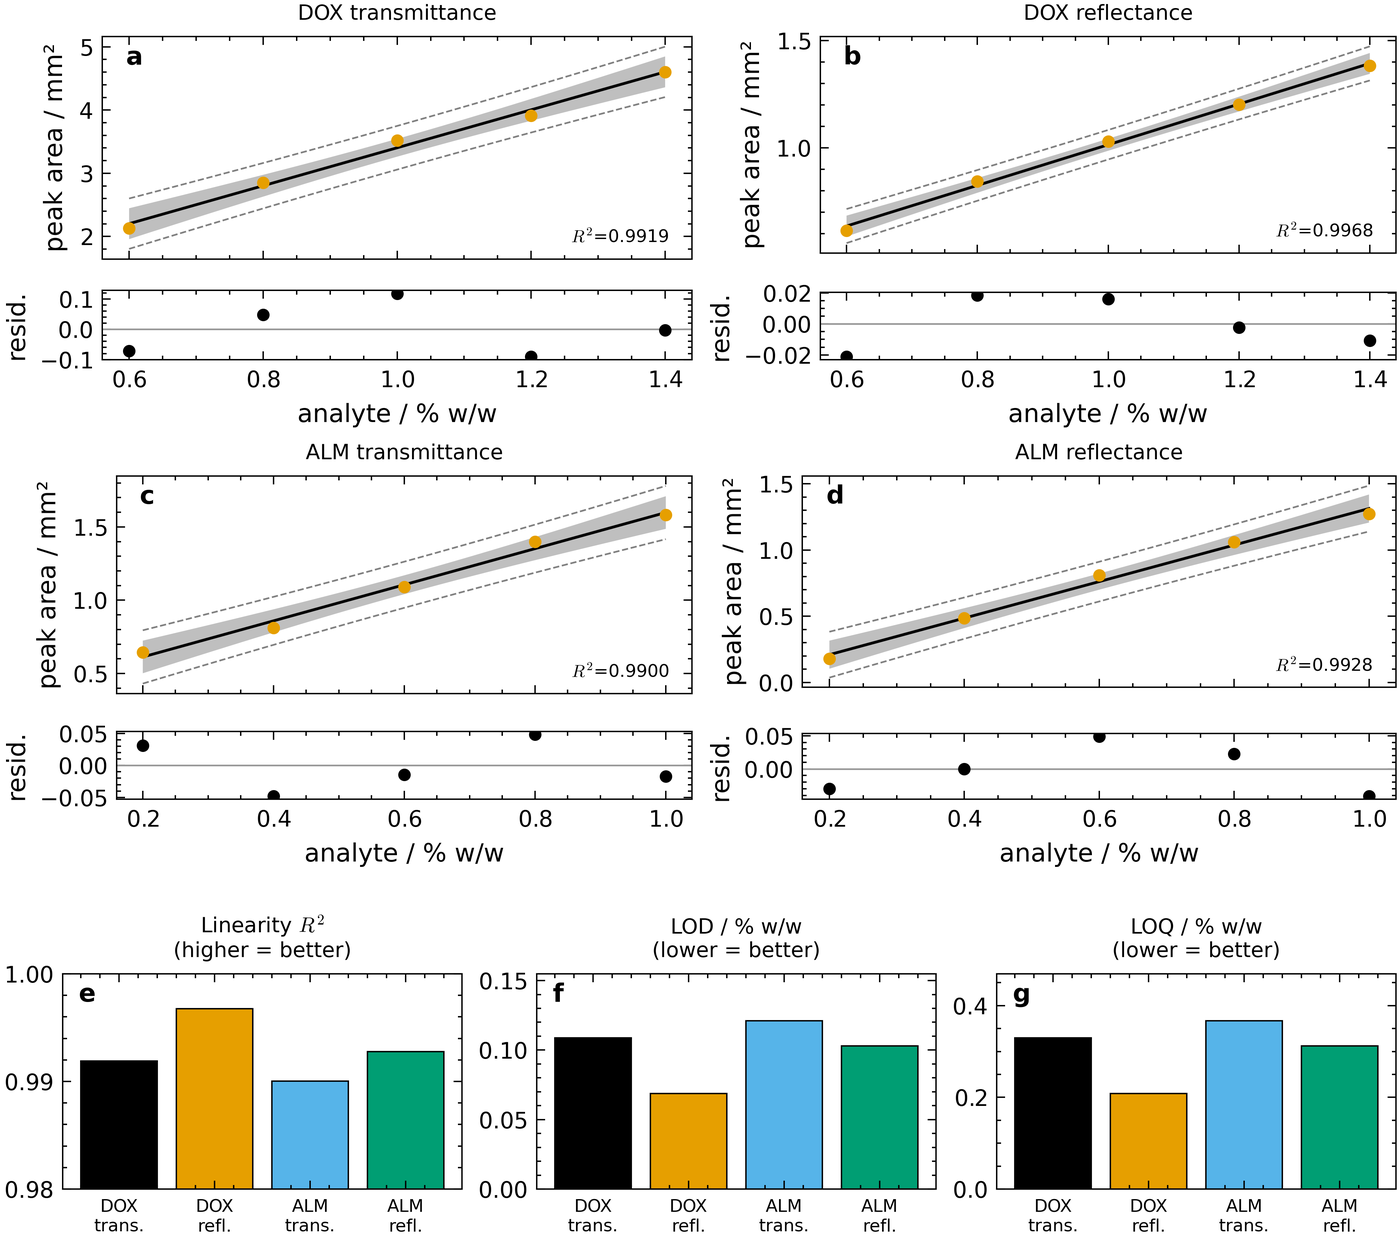
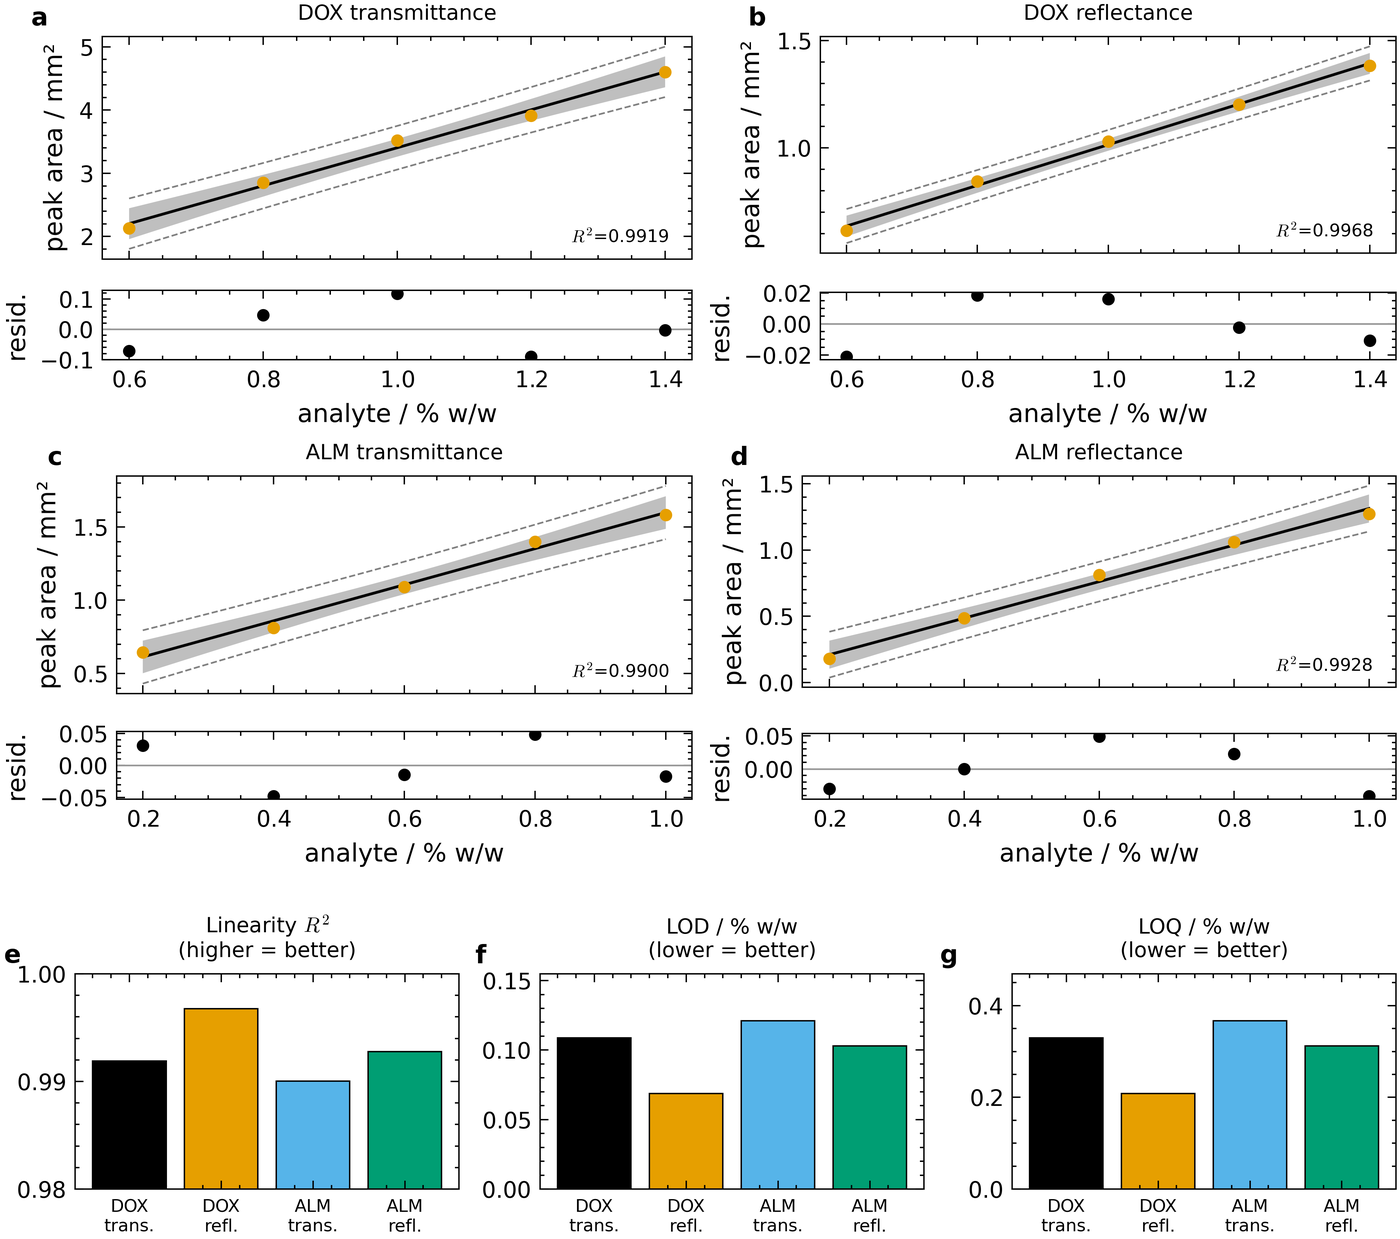
Pre-publication review, round 1: clean-clone findings + the two completed static angles
Clean clone (numpy/matplotlib/scipy only): the chemometrics suite now SKIPs
without scikit-learn instead of failing the gate; cli.py --help no longer
crashes (bare % in an argparse help string) and is tested; README names the
crystal-family deps. Panel letters sit outside the corner on every composite
(add_panel_labels(axes=...)); SKILL.md guidance updated.

Static review: silent fallbacks in correct_baseline, _sg and the t-multiplier
now WARN (and the no-scipy quantile is exact via statistics.NormalDist); the
FTIR dead-pixel heuristic no longer bypasses the whole ingest gate for PXRD
and crystal_pxrd.plot gates the experimental overlay; rwp/sum_of_parents/
phase_report default to weight=auto (Poisson only for counts-like data);
simulate_pattern takes alpha1 from cfg.pxrd_wavelength and warns on the two
silent no-ops; escape_tol_frac declared in Config; scienceplots deprecation
chatter silenced. Deferred findings recorded in ROADMAP.md and a Known
limitations section added to the README.

diff --git a/scripts/cocrystal.py b/scripts/cocrystal.py
@@ -76,10 +76,20 @@ def classify_ionisation(pka_acid, pka_base_conjugate,
 # indexing / FTIR (cocrystal_id.md) / SCXRD.
 
 
-def rwp(y_obs, y_calc, weight="poisson", eps=1e-12):
+def _resolve_weight(yo, weight):
+    """'auto' → 'poisson' only when every y_obs > 0 (counts-like data with a background);
+    a background-subtracted or normalised profile with true zeros gets 'unit' - under Poisson
+    weights one zero would weigh 1/eps and the Rwp would be meaningless."""
+    if weight == "auto":
+        return "poisson" if (yo.size and float(np.min(yo)) > 0) else "unit"
+    return weight
+
+
+def rwp(y_obs, y_calc, weight="auto", eps=1e-12):
     """Weighted profile residual (Rietveld goodness-of-fit):
         Rwp = sqrt( Σ w_i (y_obs_i − y_calc_i)² / Σ w_i y_obs_i² )
     Returns the FRACTION (0 = perfect; ×100 for %). weight:
+      'auto'    → (default) 'poisson' when every y_obs > 0, else 'unit' (see _resolve_weight).
       'poisson' → w_i = 1/max(y_obs_i, eps) — counting statistics, the crystallographic default
                   (assumes counts-like data with a non-zero background; on a normalised pattern
                   with true zeros prefer 'unit').
@@ -88,19 +98,20 @@ def rwp(y_obs, y_calc, weight="poisson", eps=1e-12):
     diagnostic on top of it."""
     yo = np.asarray(y_obs, float).ravel()
     yc = np.asarray(y_calc, float).ravel()
+    weight = _resolve_weight(yo, weight)
     if weight == "unit":
         w = np.ones_like(yo)
     elif weight == "poisson":
         w = 1.0 / np.maximum(yo, eps)
     else:
-        raise ValueError("weight must be 'poisson' or 'unit'")
+        raise ValueError("weight must be 'auto', 'poisson' or 'unit'")
     den = float(np.sum(w * yo ** 2))
     if den <= 0:
         return float("nan")
     return float(np.sqrt(np.sum(w * (yo - yc) ** 2) / den))
 
 
-def sum_of_parents(y_obs, parents, weight="poisson", eps=1e-12):
+def sum_of_parents(y_obs, parents, weight="auto", eps=1e-12):
     """Fit an observed pattern as a NON-NEGATIVE linear combination of the parent patterns
     (NNLS) — the physical-mixture model. A true mixture reconstructs well (low Rwp, no
     systematic unexplained peaks); a genuine new phase does NOT (the parents can't build its
@@ -127,6 +138,7 @@ def sum_of_parents(y_obs, parents, weight="poisson", eps=1e-12):
     resid = y - y_calc
     total = float(coef.sum())
     frac = coef / total if total > 0 else np.full_like(coef, np.nan)
+    weight = _resolve_weight(np.asarray(y, float).ravel(), weight)   # record the weighting actually used
     rw = rwp(y, y_calc, weight=weight, eps=eps)
     caption = (f"NNLS sum-of-parents: {coef.size} parents, relative scale "
                f"{np.array2string(frac, precision=3)} (NOT quantitative phase % — no RIR); "
@@ -154,7 +166,7 @@ def unexplained_peaks(x, residual, reference=None, kind="new", rel_height=0.05, 
     return peaks
 
 
-def phase_report(x, y_obs, parents, weight="poisson", peak_rel_height=0.05):
+def phase_report(x, y_obs, parents, weight="auto", peak_rel_height=0.05):
     """Turn-key new-phase-vs-physical-mixture report: NNLS sum-of-parents fit + Rwp + the
     new/lost unexplained-peak lists + a HEURISTIC verdict. The verdict is a detection (are
     there unexplained peaks above `peak_rel_height`?), not a magic Rwp cutoff — read it WITH

diff --git a/docs/build_gallery.py b/docs/build_gallery.py
@@ -246,7 +246,7 @@ def render_inline():
     fig.get_layout_engine().set(w_pad=0.04, h_pad=0.04)
     top, bot = fig.subfigures(2, 1, height_ratios=[3.0, 1.15], hspace=0.05)
     outer = top.add_gridspec(2, 2, hspace=0.20, wspace=0.16)
-    models, letters = {}, "abcd"
+    models, charts = {}, []
     for i, (name, (xs_, ys_, _pub)) in enumerate(BMC.items()):
         r, c = divmod(i, 2)
         cell = outer[r, c].subgridspec(2, 1, height_ratios=[3.2, 1], hspace=0.05)
@@ -269,7 +269,7 @@ def render_inline():
         a1.scatter(m["x"], m["resid"], zorder=3, s=12)
         a1.set_ylabel("resid.")
         a1.set_xlabel("analyte / % w/w")
-        style.panel_letter(a0, letters[i])
+        charts.append(a0)
     axf = bot.subplots(1, 3)
     short = [n.replace(" transmittance", "\ntrans.").replace(" reflectance", "\nrefl.") for n in BMC]
     fom = {
@@ -286,7 +286,9 @@ def render_inline():
             axf[k].set_ylim(0.98, 1.0)
         else:
             axf[k].set_ylim(0, max(vals) * 1.28)
-        style.panel_letter(axf[k], "efg"[k])
+        charts.append(axf[k])
+    fig.canvas.draw()                                             # settle the nested layout first
+    style.add_panel_labels(fig, cfg2, axes=charts, x_offset_pt="auto")
     save(fig, "composite_method", cfg2)
 
     # ---- composite B: specificity (full spectra · carbonyl window · ratio vs DM)
@@ -321,8 +323,7 @@ def render_inline():
     c.set_xlabel("DM / %"); c.set_ylabel("band-area ratio  I")
     c.annotate(f"$R^2$={m['r2']:.3f}", xy=(0.96, 0.06), xycoords="axes fraction", ha="right", va="bottom", fontsize="x-small")
     style.finalize_figure(fig, wspace=0.10, hspace=0.10)
-    for ax_, L in ((a, "a"), (b, "b"), (c, "c")):
-        style.panel_letter(ax_, L)
+    style.add_panel_labels(fig, cfg2, axes=[a, b, c], x_offset_pt="auto")
     save(fig, "composite_specificity", cfg2)
 
     # ---- composite C: PXRD phase ID (full range · low-angle zoom · one key) — needs gemmi + Dans

diff --git a/scripts/verify.py b/scripts/verify.py
@@ -71,8 +71,9 @@ def check_trace(x, y, cfg, name="trace", min_points=8, require_monotonic=True):
         dx = np.diff(x)
         if not (np.all(dx > 0) or np.all(dx < 0)):
             f.append(("FAIL", "x axis is not monotonic (concatenation/parse error?)"))
-    # crude noise/spike check: a single sample dominating the dynamic range
-    if y.size and np.ptp(y) > 0:
+    # crude noise/spike check: a single sample dominating the dynamic range. An FTIR rule -
+    # sharp Bragg peaks would trip it, so the pxrd domain keeps the structural checks only.
+    if y.size and np.ptp(y) > 0 and getattr(cfg, "domain", "ftir") != "pxrd":
         spikes = np.abs(np.diff(y, 2))
         if spikes.size and spikes.max() > 0.5 * np.ptp(y):
             f.append(("WARN", "large single-sample spike - check for a dead pixel/cosmic ray"))
@@ -130,8 +131,10 @@ def summarize(values, cfg):
         from scipy import stats
         t = float(stats.t.ppf(0.5 + p / 2, df=n - 1)) if n > 1 else float("nan")
     except Exception:
-        # normal-approx fallback if scipy absent
-        z = {0.90: 1.645, 0.95: 1.960, 0.99: 2.576}.get(round(p, 2), 1.960)
+        from statistics import NormalDist              # scipy absent: exact z, and say so
+        z = float(NormalDist().inv_cdf(0.5 + p / 2))
+        print(f"  [WARN] summarize: scipy unavailable - normal quantile z={z:.3f} used instead of "
+              f"t at n-1={n - 1} dof (CI too narrow at small n)")
         t = z if n > 1 else float("nan")
     ci = t * sem if n > 1 else float("nan")
     caption = (f"mean ± {int(p*100)}% CI (t={t:.3f}·SEM), n={n}"

diff --git a/scripts/crystal_pxrd.py b/scripts/crystal_pxrd.py
@@ -181,9 +181,9 @@ def realistic_pattern(struct, cfg, x_grid=None, npoints=3000):
 
 def plot(struct, cfg, experimental=None, pattern=None):
     """Plot the calculated pattern through the house pxrd conventions (normal 2theta axis,
-    intensity). `experimental`=(2theta, I) overlays a measured trace for phase ID. We don't
-    run verify.check_trace here — the data is our own validated calc, not an ingest, and its
-    sharp Bragg peaks would trip the FTIR dead-pixel spike heuristic."""
+    intensity). `experimental`=(2theta, I) overlays a measured trace for phase ID; that trace is
+    an ingest and is gated with verify.check_trace (pxrd domain: structural checks, no FTIR
+    spike heuristic). The calculated pattern is our own validated computation, not an ingest."""
     if pattern is None:
         pattern = calc_pattern(struct, cfg)
     pcfg = replace(cfg, domain="pxrd")
@@ -192,6 +192,7 @@ def plot(struct, cfg, experimental=None, pattern=None):
     ax.plot(pattern["two_theta"], pattern["intensity"], label="calculated")
     if experimental is not None:
         ex, ey = np.asarray(experimental[0], float), np.asarray(experimental[1], float)
+        verify.check_trace(ex, ey, pcfg, name="experimental")
         if ey.size and ey.max() > 0:
             ey = ey / ey.max() * 100.0
         ax.plot(ex, ey, label="experimental")

diff --git a/scripts/spectra.py b/scripts/spectra.py
@@ -95,7 +95,9 @@ def correct_baseline(x, y, cfg):
     if method == "arpls":
         try:
             b = _arpls(np.asarray(y, float), lam=cfg.arpls_lam)
-        except Exception:
+        except Exception as e:
+            print(f"  [WARN] baseline: arPLS failed ({type(e).__name__}: {e}) - this trace fell back to "
+                  f"rubberband; cfg.baseline no longer describes what ran for it")
             b = _rubberband(np.asarray(x, float), np.asarray(y, float))
     elif method == "rubberband":
         b = _rubberband(np.asarray(x, float), np.asarray(y, float))
@@ -158,7 +160,9 @@ def _sg(y, smooth, deriv=0, delta=1.0):
         if w <= poly:
             raise ValueError
         return savgol_filter(y, w, poly, deriv=deriv, delta=delta)
-    except Exception:
+    except Exception as e:
+        print(f"  [WARN] smooth: Savitzky-Golay unavailable or window unworkable ({type(e).__name__}) - "
+              f"{'raw trace' if deriv == 0 else 'finite-difference derivative'} used instead")
         if deriv == 0:
             return y
         d = y

diff --git a/scripts/pxrd_realism.py b/scripts/pxrd_realism.py
@@ -126,6 +126,14 @@ def simulate_pattern(reflections, x_grid, cfg=None, *, U=None, V=None, W=None, e
     ratio = _pick(cfg, "pxrd_kalpha2_ratio", CU_KA2_RATIO, ratio)
     po_hkl = _pick(cfg, "pxrd_po_axis", None, po_hkl)
     march_r = _pick(cfg, "pxrd_march_r", 1.0, march_r)
+    if cfg is not None and lam1 == CU_KA1 and getattr(cfg, "pxrd_wavelength", None):
+        lam1 = float(cfg.pxrd_wavelength)           # the α1 the reflection list was computed at
+    if kalpha2 and abs(lam1 - CU_KA1) > 1e-3 and lam2 == CU_KA2:
+        print(f"  [WARN] pxrd_realism: Kα2 doublet uses the Cu Kα2 line ({CU_KA2} Å) on an α1 of {lam1} Å - "
+              f"set pxrd_wavelength2 for a non-Cu anode, or pin pxrd_wavelength to Cu")
+    if po_hkl is not None and march_r != 1.0 and Gs is None:
+        print("  [WARN] pxrd_realism: preferred orientation requested (pxrd_po_axis) but no reciprocal "
+              "metric Gs was given - March-Dollase NOT applied")
 
     refl = list(reflections)
     if po_hkl is not None and march_r != 1.0 and Gs is not None:

diff --git a/tests/test_cli_help.py b/tests/test_cli_help.py
@@ -1,0 +1,23 @@
+"""cli.py --help must render: a bare % in an argparse help string makes argparse raise on Python 3.13."""
+import os
+import sys
+import subprocess
+
+ROOT = os.path.dirname(os.path.dirname(os.path.abspath(__file__)))
+CLI = os.path.join(ROOT, "cli.py")
+
+
+def _help(*args):
+    r = subprocess.run([sys.executable, CLI, *args, "--help"], capture_output=True, text=True)
+    assert r.returncode == 0, r.stderr[-800:]
+    return r.stdout
+
+
+def test_top_level_help():
+    out = _help()
+    assert "spc-rsd" in out and "calibrate" in out
+
+
+def test_subcommand_help():
+    assert "usage" in _help("spc-rsd").lower()
+    assert "usage" in _help("calibrate").lower()

diff --git a/cli.py b/cli.py
@@ -106,7 +106,7 @@ def build_parser():
                                  formatter_class=argparse.RawDescriptionHelpFormatter)
     sub = ap.add_subparsers(dest="cmd", required=True)
 
-    a = sub.add_parser("spc-rsd", help="band area/height/deriv2 + %RSD over a set of .spc replicates")
+    a = sub.add_parser("spc-rsd", help="band area/height/deriv2 + %%RSD over a set of .spc replicates")
     a.add_argument("dir", help="directory of .spc files, or a glob")
     a.add_argument("--center", type=float, required=True, help="band centre in cm-1 (e.g. 1748)")
     a.add_argument("--metric", choices=("area", "height", "deriv2"), default="area")

diff --git a/scripts/style.py b/scripts/style.py
@@ -94,8 +94,11 @@ def apply_style(cfg):
     """Install the house style. Call once before plotting."""
     # Prefer scienceplots' no-latex style; fall back to the hand-rolled preset.
     try:
-        import scienceplots  # noqa: F401
-        plt.style.use(["science", "no-latex"])
+        import warnings
+        with warnings.catch_warnings():
+            warnings.simplefilter("ignore")          # scienceplots' own deprecation chatter
+            import scienceplots  # noqa: F401
+            plt.style.use(["science", "no-latex"])
     except Exception:
         plt.rcParams.update(_BASE_RC)
     plt.rcParams.update(_main_rc(cfg))

diff --git a/scripts/config.py b/scripts/config.py
@@ -132,6 +132,7 @@ class Config:
     outlier_mad_n: float = 3.5           # MAD multiplier for verify.flag_outliers_mad
     tick_overlap_tol_px: float = 2.0     # audit_layout flags tick labels closer than this
     clip_tol_px: float = 2.0             # audit_layout flags non-tick text past the canvas edge by this
+    escape_tol_frac: float = 0.01        # audit_layout flags data running past the y-limits by more than this fraction of the range
     strict: bool = True                  # True => any FAIL gate raises; False => warns only
 
     # ---------------------------------------------------------------- crystallography (CIF)

diff --git a/scripts/calibration.py b/scripts/calibration.py
@@ -22,7 +22,11 @@ def _tmult(df, conf):
         from scipy import stats
         return float(stats.t.ppf(0.5 + conf / 2, df))
     except Exception:
-        return {0.90: 1.645, 0.95: 1.960, 0.99: 2.576}.get(round(conf, 2), 1.960)
+        from statistics import NormalDist              # scipy absent: exact z, and say so
+        z = float(NormalDist().inv_cdf(0.5 + conf / 2))
+        print(f"  [WARN] calibration: scipy unavailable - normal quantile z={z:.3f} used instead of "
+              f"t at {df} dof (bands too narrow at small n)")
+        return z
 
 
 def fit(x, y, cfg):

diff --git a/skill_validation/chemometrics/run.py b/skill_validation/chemometrics/run.py
@@ -25,6 +25,12 @@ MODULES = ["test_preprocessing", "test_pls", "test_pcr_pca", "test_cv", "test_vi
 
 
 def main():
+    try:
+        import sklearn  # noqa: F401  (the family's PLS/PCA/PCR core)
+    except ImportError:
+        print("SKIP: scikit-learn not installed -- the chemometrics validation suite needs it "
+              "(python -m pip install scikit-learn)")
+        return 0
     results = []
     for name in MODULES:
         try:
